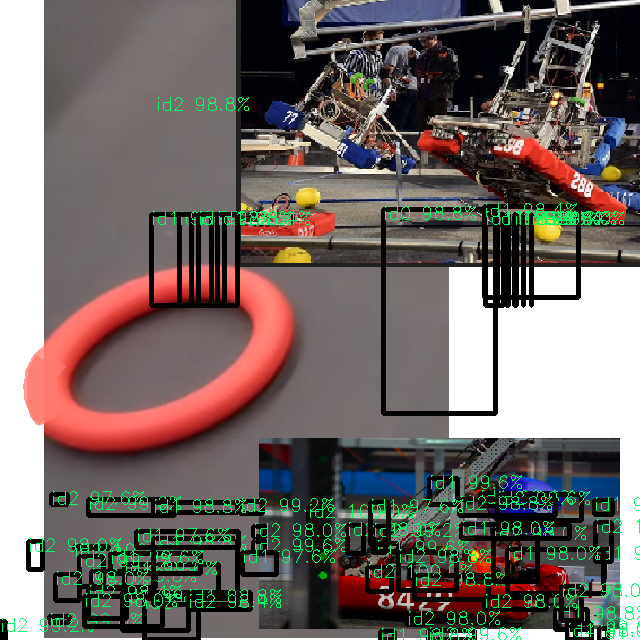
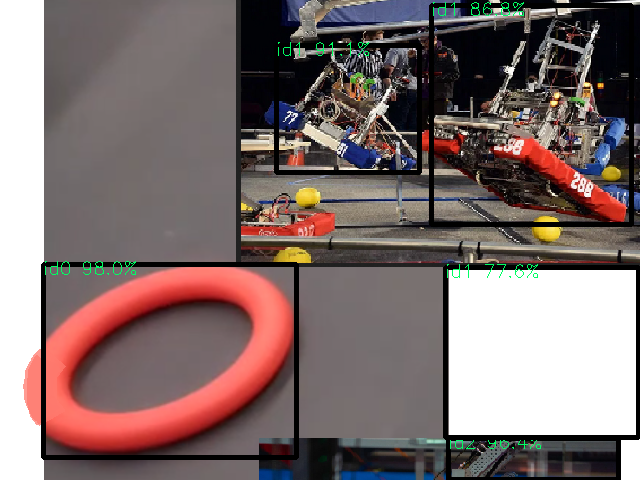
fix some skill issues in v8

diff --git a/src/main/native/cpp/postprocess_v8.cc b/src/main/native/cpp/postprocess_v8.cc
@@ -424,7 +424,8 @@ int post_process_v8(cv::Size modelSize, rknn_output *outputs, BOX_RECT *padding,
 
     int width = padding->right - padding->left;
     int height = padding->bottom - padding->top;
-    float rect_scale = static_cast<float>(width) / static_cast<float>(height);
+    float widthScale = (float)width / modelSize.width;
+    float heightScale = (float)height / modelSize.height;
 
     /* box valid detect target */
     od_results->results.reserve(OBJ_NUMB_MAX_SIZE_V8);
@@ -446,10 +447,10 @@ int post_process_v8(cv::Size modelSize, rknn_output *outputs, BOX_RECT *padding,
         float obj_conf = objProbs[i];
 
         detect_result_t det;
-        det.box.left = (int)(clamp(x1, 0, model_in_w) / rect_scale);
-        det.box.top = (int)(clamp(y1, 0, model_in_h) / rect_scale);
-        det.box.right = (int)(clamp(x2, 0, model_in_w) / rect_scale);
-        det.box.bottom = (int)(clamp(y2, 0, model_in_h) / rect_scale);
+        det.box.left = (int)(clamp(x1, 0, model_in_w) * widthScale);
+        det.box.top = (int)(clamp(y1, 0, model_in_h) * heightScale);
+        det.box.right = (int)(clamp(x2, 0, model_in_w) * widthScale);
+        det.box.bottom = (int)(clamp(y2, 0, model_in_h) * heightScale);
         det.obj_conf = obj_conf;
         det.id = id;
         od_results->results.push_back(det);

diff --git a/src/main/native/cpp/main_test.cc b/src/main/native/cpp/main_test.cc
@@ -3,15 +3,24 @@
 #include <opencv2/imgcodecs.hpp>
 #include <opencv2/imgproc.hpp>
 
-int main_test(const char* model_name)
+int main_test(ModelVersion version)
 {
 
-    YoloModel *wrapper  = new YoloV5Model(model_name, 3, ModelVersion::YOLO_V5, 0);
+    YoloModel *wrapper;
+
+    if (version == ModelVersion::YOLO_V5) {
+        printf("Starting with version 5\n");
+        wrapper = new YoloV5Model("note-640-640-yolov5s.rknn", 1, ModelVersion::YOLO_V5, 0);
+    } else {
+        printf("Starting with version 8\n");
+        wrapper = new YoloV8Model("note-robot-yolov8s-quant.rknn", 3, ModelVersion::YOLO_V8, 0);
+    }
+    
     std::cout << "created: " << (long unsigned int)wrapper << std::endl;
 
     for (int j = 0; j < 1; j++) {
         cv::Mat img;
-        img = cv::imread("silly_notes.png");
+        img = cv::imread("silly_notes2.png");
 
         DetectionFilterParams params {
             .nms_thresh = 0.45,
@@ -61,6 +70,6 @@ int main() {
 //     threads.emplace_back(std::thread([]() {main_test("../note-640-640-yolov5s.rknn");}));
 //     for (auto& th : threads) th.join();
 
-    // main_test("note-robot-yolov8s-quant.rknn");
-    main_test("note-640-640-yolov5s.rknn");
+    main_test(ModelVersion::YOLO_V8);
+    // main_test(ModelVersion::YOLO_V5);
 }
